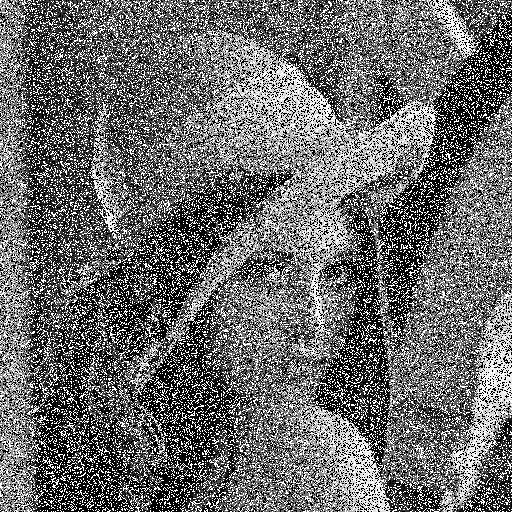
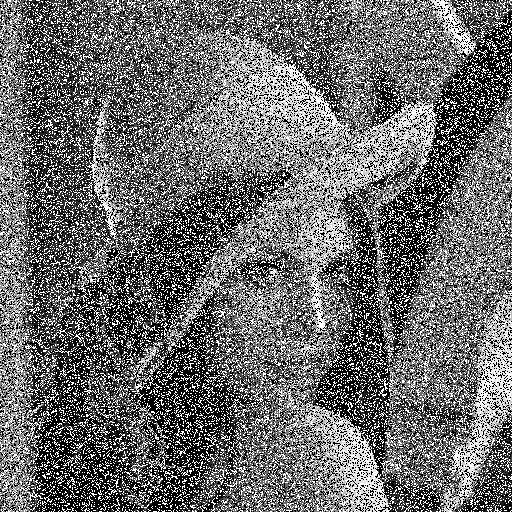
Dividing regions for salt and pepper added for more equallt distributed noise, kernel size adjusted to 3x3 - 7x7, new results created

diff --git a/src/salt_and_pepper.py b/src/salt_and_pepper.py
@@ -1,31 +1,55 @@
 import numpy as np
 import cv2
 
-def add_salt_and_pepper_noise(image, salt_ratio=0.45, pepper_ratio=0.45):
+def add_salt_and_pepper_noise(image, salt_ratio=0.45, pepper_ratio=0.45, num_regions_row=16, num_regions_col=16):
     row, col = image.shape
     noisy_image = np.copy(image)
 
-    num_pixels = row * col
+    region_size_row = row // num_regions_row
+    region_size_col = col // num_regions_col
 
-    num_salt = int(num_pixels * salt_ratio)
-    num_pepper = int(num_pixels * pepper_ratio)
+    num_salt_per_region = int((region_size_row * region_size_col) * salt_ratio)
+    num_pepper_per_region = int((region_size_row * region_size_col) * pepper_ratio)
 
-    all_coords = np.random.permutation(num_pixels)
+    # Divide image to regions to distribute noise equally on every part of the image
+    for i in range(num_regions_row):
+        for j in range(num_regions_col):
+            start_row = i * region_size_row
+            end_row = start_row + region_size_row
+            start_col = j * region_size_col
+            end_col = start_col + region_size_col
 
-    salt_coords = all_coords[:num_salt]
-    salt_coords = np.unravel_index(salt_coords, (row, col))
-    noisy_image[salt_coords] = 255
+            region = noisy_image[start_row:end_row, start_col:end_col]
+            region_num_pixels = region.size
 
-    # Pepper coordinates
-    pepper_coords = all_coords[num_salt:num_salt + num_pepper]
-    pepper_coords = np.unravel_index(pepper_coords, (row, col))
-    noisy_image[pepper_coords] = 0
+            all_coords = np.arange(region_num_pixels)
+            np.random.shuffle(all_coords)
+            salt_coords = all_coords[:num_salt_per_region]
+            salt_coords = np.unravel_index(salt_coords, (region_size_row, region_size_col))
+            region[salt_coords] = 255
+
+            pepper_coords = all_coords[num_salt_per_region:num_salt_per_region + num_pepper_per_region]
+            pepper_coords = np.unravel_index(pepper_coords, (region_size_row, region_size_col))
+            region[pepper_coords] = 0
+
+            noisy_image[start_row:end_row, start_col:end_col] = region
 
     return noisy_image
 
 
 image = cv2.imread('lena_original.png', cv2.IMREAD_GRAYSCALE)
-noisy_image = add_salt_and_pepper_noise(image)
+noise_list = [10,20,30,40,50,60,70,80,90]
+for i in noise_list:
+    noisy_image = add_salt_and_pepper_noise(image, i/200, i/200)
 
-output_path = 'Noisy/lena_noisy_91.png'
-cv2.imwrite(output_path,noisy_image)
+    output_path = f'Noisy/lena_noisy_{i}.png'
+    # For debug
+    #x,y = noisy_image.shape
+    #count = 0
+    # print(x * y)
+    # for i in range(x):
+    #     for j in range(y):
+    #         if noisy_image[i,j] != 0 and noisy_image[i,j] != 255:
+    #             count+=1
+    # #print(count)
+    cv2.imwrite(output_path,noisy_image)

diff --git a/src/main.py b/src/main.py
@@ -38,9 +38,7 @@ class EnhancedMedian():
             return self.pad_size
         elif self.isNonExtremePixelExist(x, y, self.pad_size + 2):
             return self.pad_size + 2
-        elif self.isNonExtremePixelExist(x, y, self.pad_size + 4):
-            return self.pad_size + 4
-        return self.pad_size + 6
+        return self.pad_size + 4
 
     def findMinMax(self, x, y):
         min_intensity = 255
@@ -118,12 +116,12 @@ class EnhancedMedian():
                 self.image_copy[x, y] = int(repaired_intensity)
                 
     def cvMedian(self):
-        self.image_median = cv2.medianBlur(self.image_noisy, 9)
+        self.image_median = cv2.medianBlur(self.image_noisy, 7)
 
     def enhancedMedian(self, image_original, image_noisy, noise_level):
         self.image_original = cv2.imread(image_original, cv2.IMREAD_GRAYSCALE)
         self.image_noisy = cv2.imread(image_noisy, cv2.IMREAD_GRAYSCALE)
-        self.pad_size = 7
+        self.pad_size = 3
         self.padImage()
         self.image_copy = self.padded_img.copy()
 
@@ -136,7 +134,7 @@ class EnhancedMedian():
 
 if __name__ == "__main__":
     filter = EnhancedMedian()
-    noise_level = [10,20,30,40,45,50,60,70,80,90]
+    noise_level = [10,20,30,40,50,60,70,80,90]
     for i in range(len(noise_level)):
         filter.enhancedMedian('lena_original.png', f'Noisy/lena_noisy_{noise_level[i]}.png', noise_level[i])
         displayPlots(filter.image_list[-1])

diff --git a/src/visualize.py b/src/visualize.py
@@ -11,6 +11,8 @@ def displayPlots(images_list):
             plt.title(f"{titles[i]}\nNoise Level: {images_list[-1]}")
             plt.axis('off')
 
-    plt.show()
+    plt.savefig(f"Results/Figure_{images_list[-1]}")  
+
+    #plt.show()
 
 
